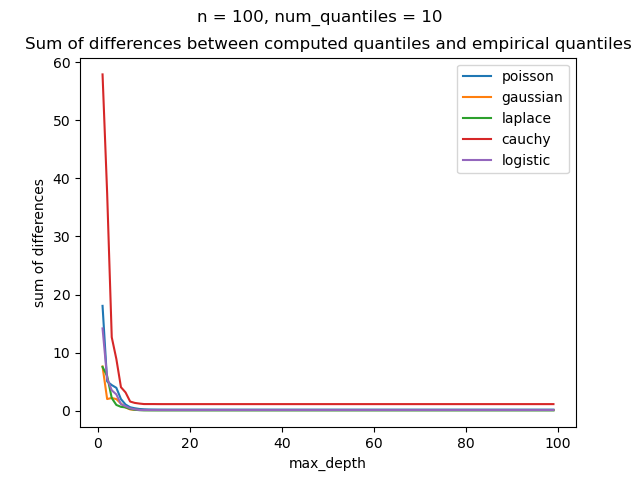
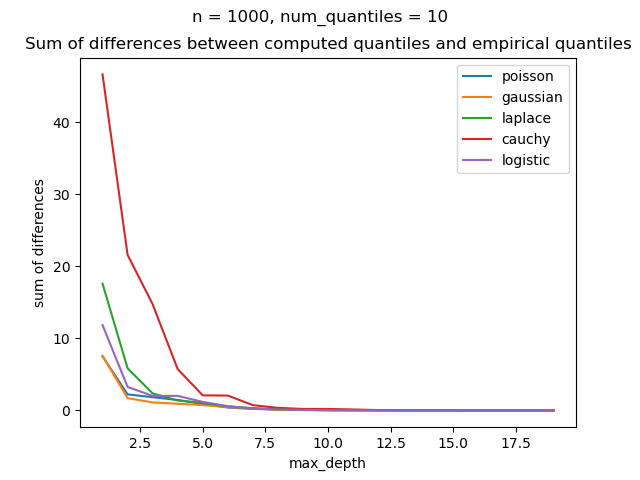
Adapt quantile plot parameters

diff --git a/quantile_test.py b/quantile_test.py
@@ -22,7 +22,7 @@ def simulation_plot(distributions, names, max_depths, q):
     plt.savefig("plots/quantile_errors.png")
 
 # Example usage:
-n = 100
+n = 1000
 num_quantiles = 10
 q = np.array([i / n for i in range(0, n, int(n / num_quantiles))])
 x_poisson = np.random.poisson(10, n)
@@ -31,8 +31,11 @@ x_laplace = np.random.laplace(0, 1, n)
 x_cauchy = np.random.standard_cauchy(n)
 x_logistic = np.random.logistic(0, 1, n)
 distributions = [x_poisson, x_gaussian, x_laplace, x_cauchy, x_logistic]
+# Standardize all datasets
+for i in range(len(distributions)):
+    distributions[i] = (distributions[i] - np.mean(distributions[i])) / np.std(distributions[i])
 names = ["poisson", "gaussian", "laplace", "cauchy", "logistic"]
-max_depths = [i for i in range(1, 100)]
+max_depths = [i for i in range(1, 20)]
 sys.setrecursionlimit(100 + 10)
 simulation_plot(distributions, names, max_depths, q)
 plt.show()
